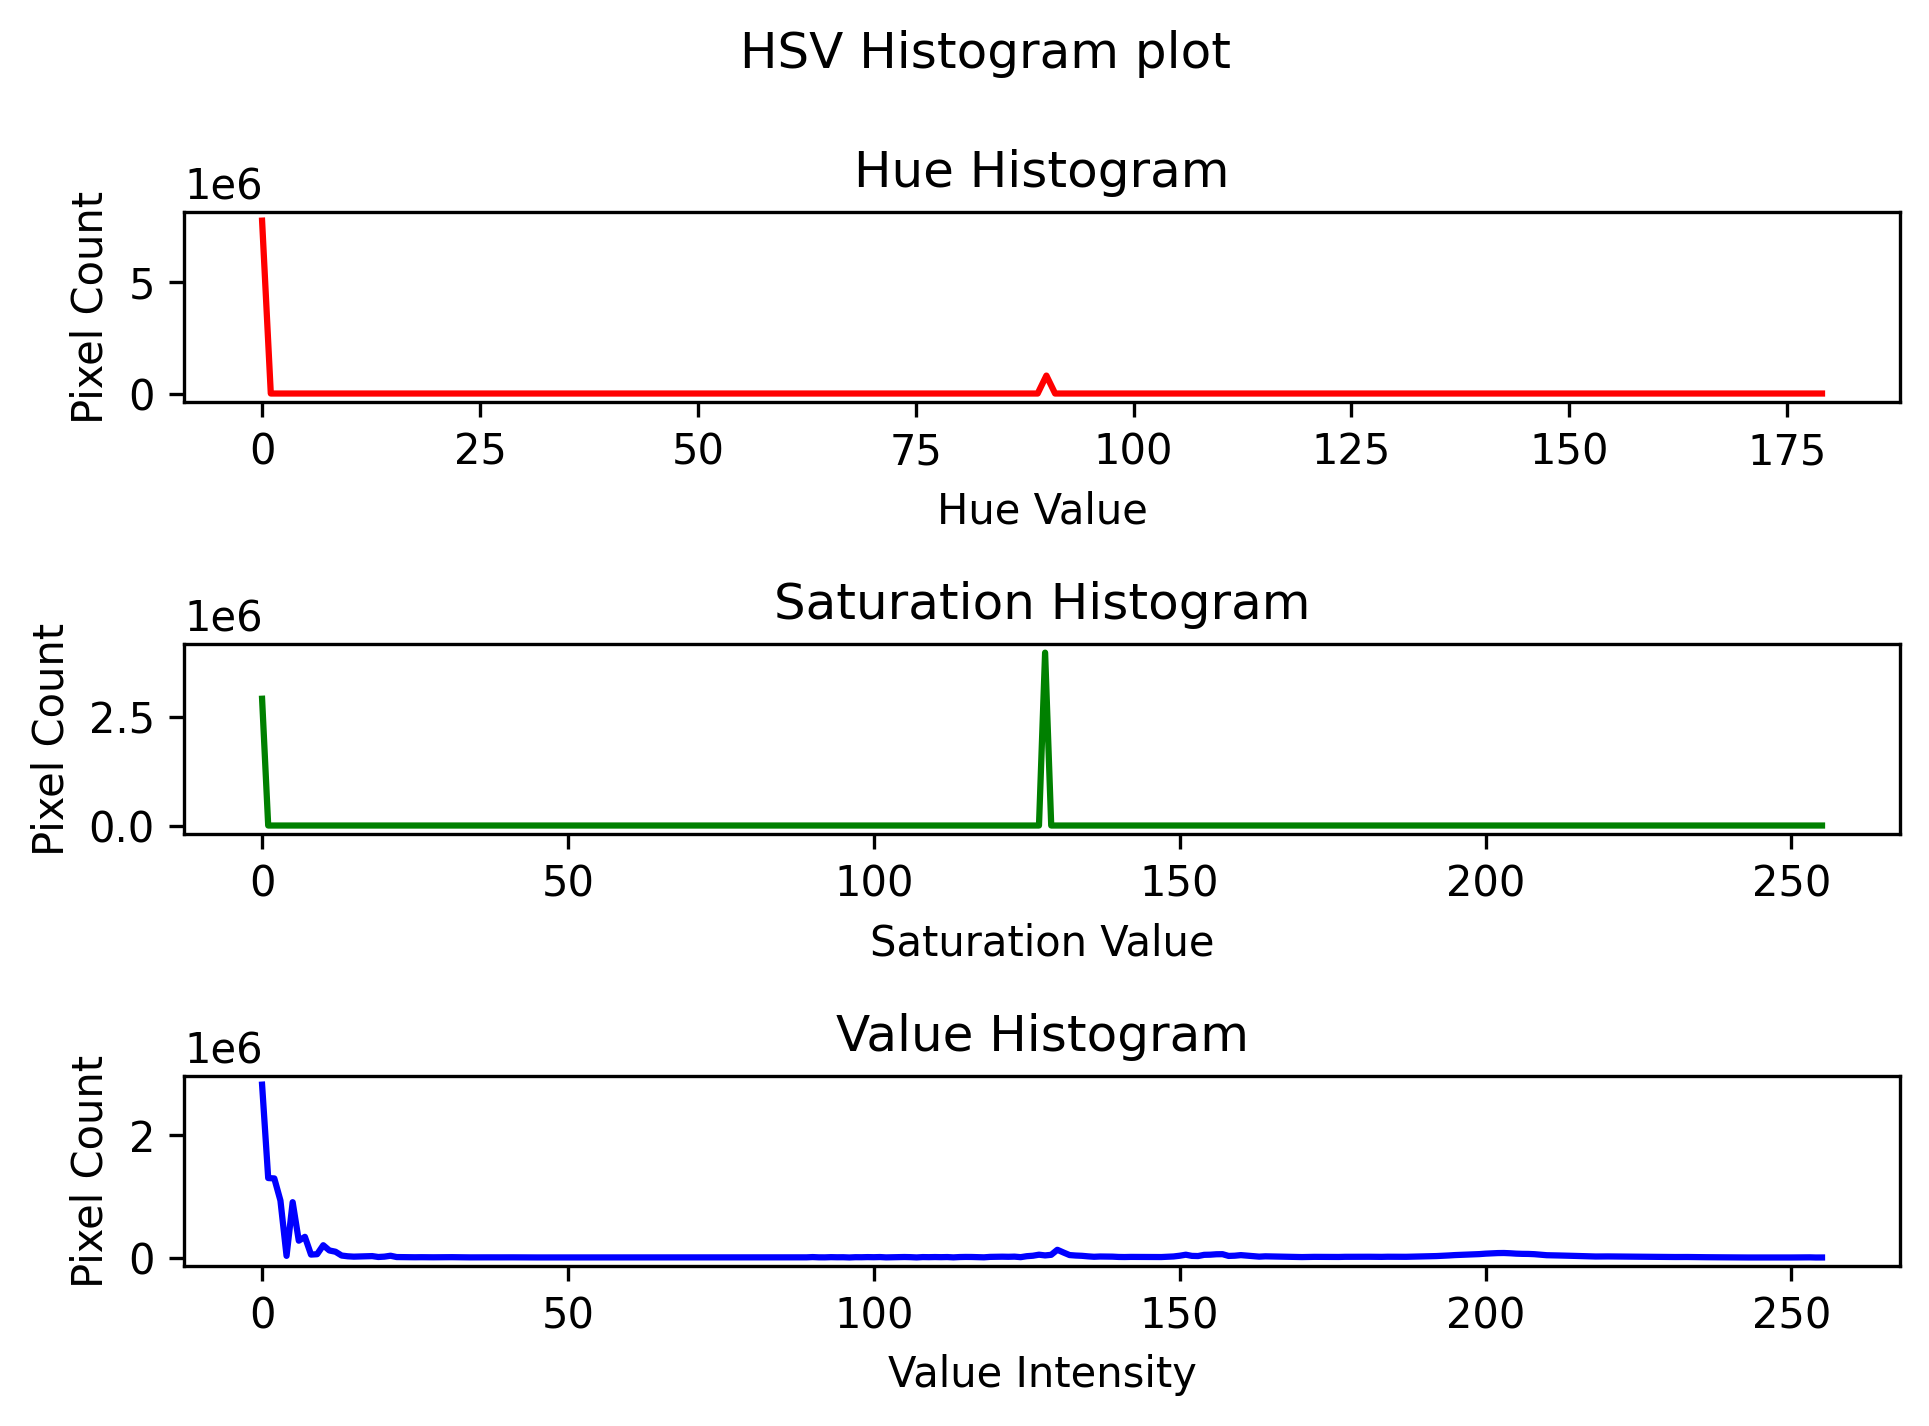
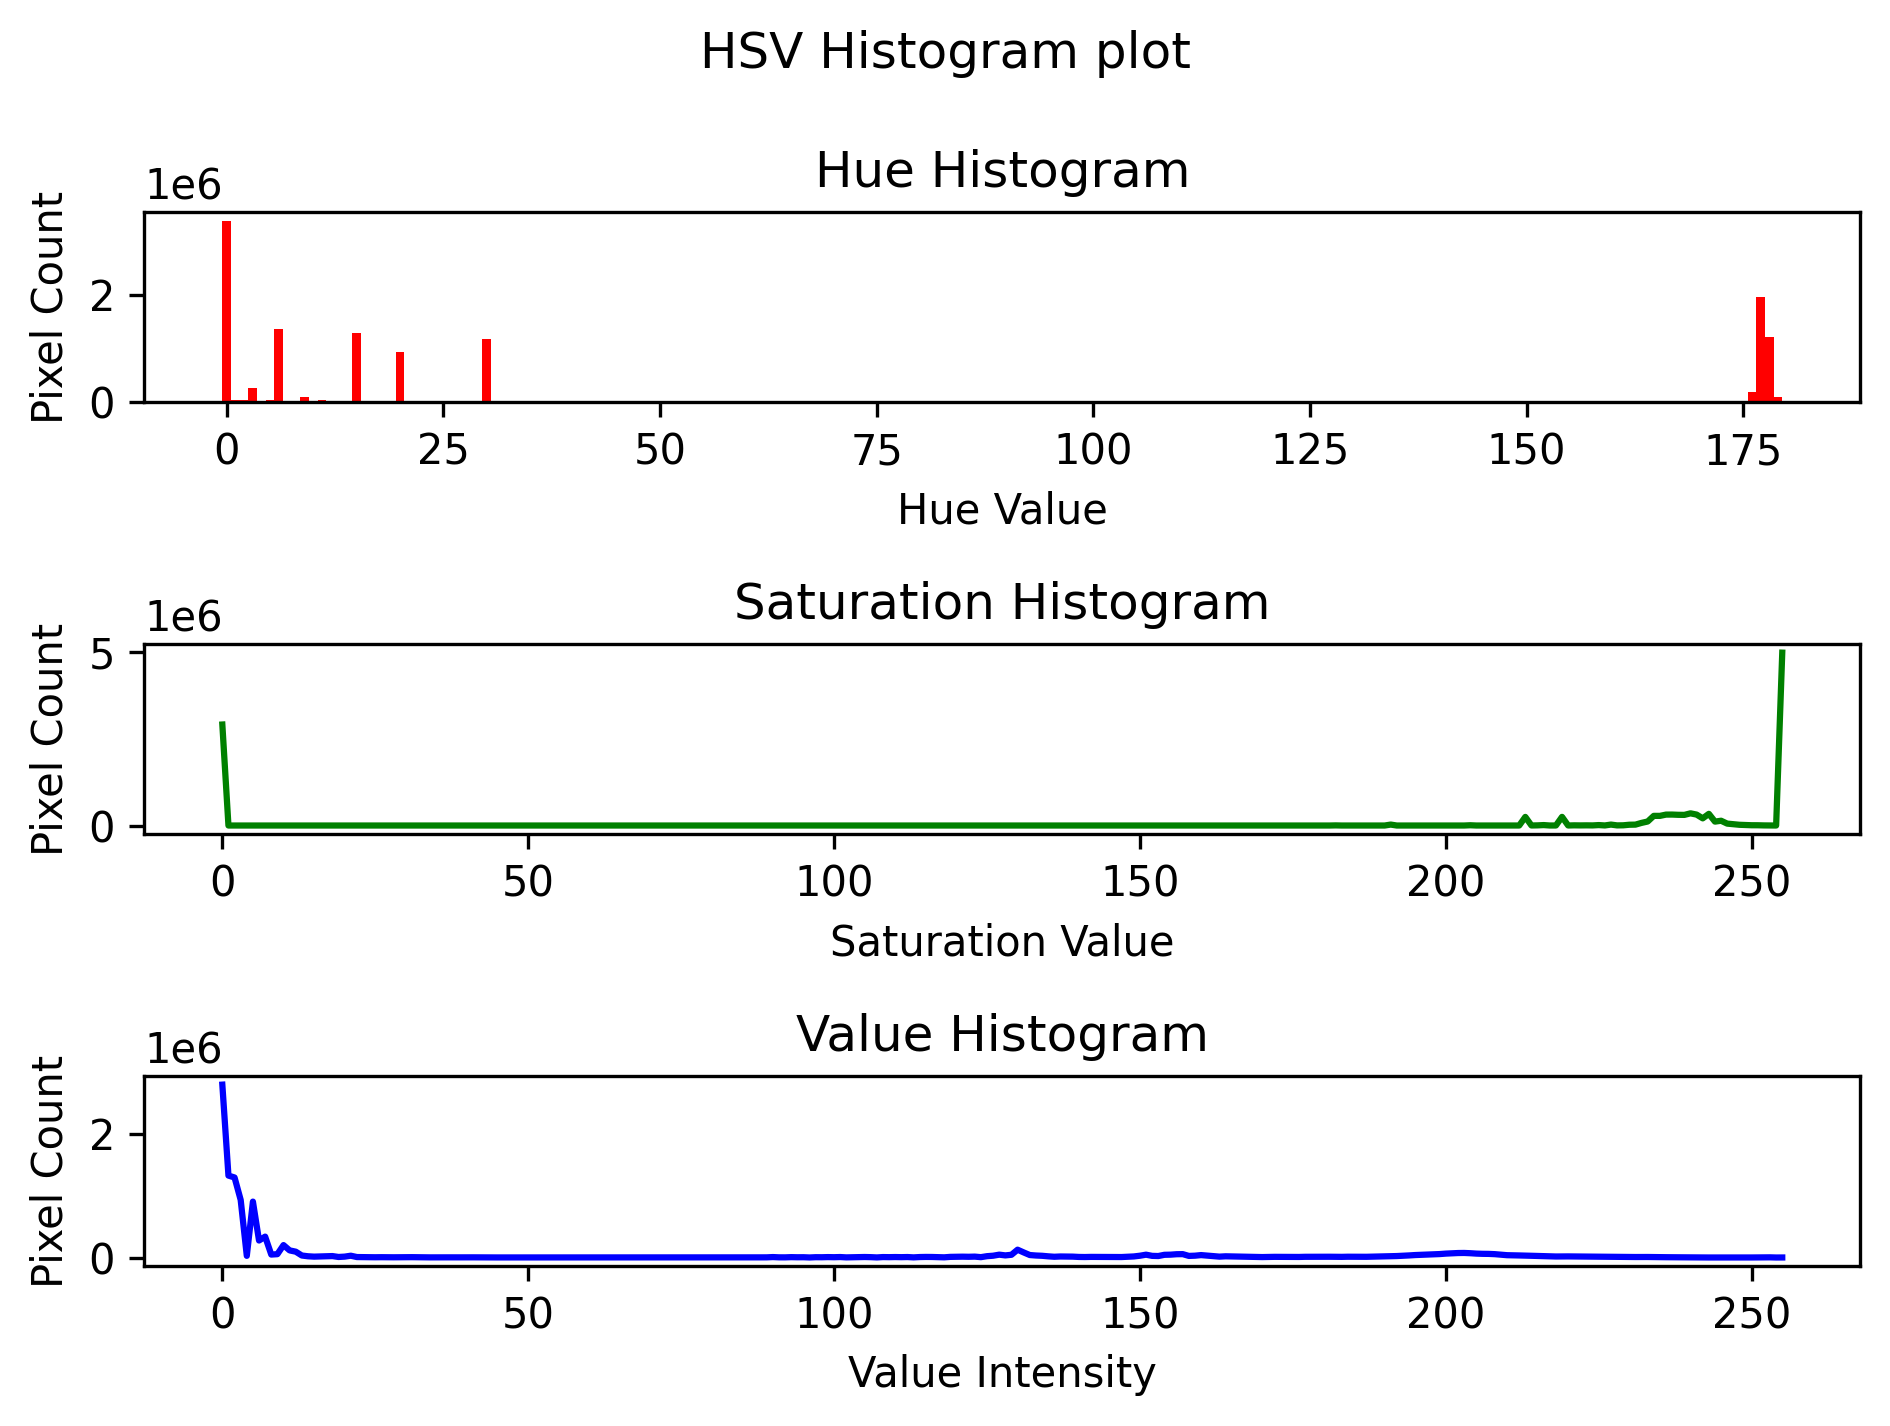
Change structure of output directory

diff --git a/src/processing/ELMImage.py b/src/processing/ELMImage.py
@@ -88,11 +88,12 @@ class ELMImage:
         figs, axs = plt.subplots(3)
         figs.suptitle('HSV Histogram plot')
 
-        hist_h = cv2.calcHist([self.bgr_arr], [0], None, [180], [0, 2])
-        hist_s = cv2.calcHist([self.bgr_arr], [1], None, [256], [0, 2])
-        hist_v = cv2.calcHist([self.bgr_arr], [2], None, [256], [0, 256])
+        hist_h = cv2.calcHist([self.hsv_arr], [0], None, [180], [0, 180])
+        hist_s = cv2.calcHist([self.hsv_arr], [1], None, [256], [0, 256])
+        hist_v = cv2.calcHist([self.hsv_arr], [2], None, [256], [0, 256])
 
-        axs[0].plot(hist_h, color='r')
+        bins_h = np.arange(180)
+        axs[0].bar(bins_h, hist_h.ravel(), width=1.0, color='r', edgecolor='none')
         axs[0].set_title('Hue Histogram')
         axs[0].set_ylabel('Pixel Count')
         axs[0].set_xlabel('Hue Value')
